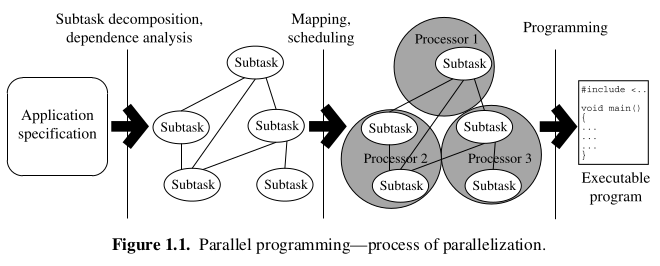
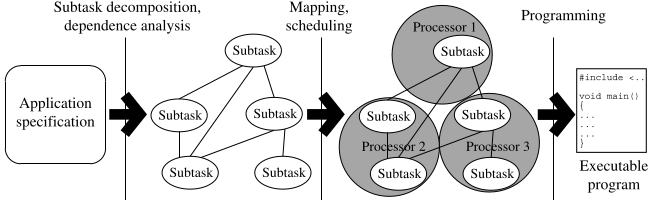
corrections and add pictures

diff --git a/inhalt/09_file_system.tex b/inhalt/09_file_system.tex
@@ -2,11 +2,10 @@
 mechanism for storing and accessing data and programs. \textbf{Files} contain data, \textbf{Directory structure} organizes and stores information about files.
 
 \subsection*{Files}
-\textbf{OS View:}  named collection of related info, logical storage unit, \textbf{User View:}  smallest unit to store info in sec. storage.
+\textbf{OS View:}  named collection of related info, log. storage unit, \textbf{User View:}  smallest unit to store info in sec. storage
 \begin{description}
     \item[Attributes](symbolic) \textbf{Name}, \textbf{Identifier},  \textbf{Type} (only if OS supports diff. types), \textbf{Location} (pointer to device + location in device), \textbf{Size} (in bytes/words/blocks), \textbf{Timestamps}, \textbf{Protection} (r, w, m)
-    \item[Operations]: \textbf{Create}: 1. find space 2. make entry in dir. \textbf{Open}: 1. evaluate file name 2. check access permissions (all ops ex. create\& delete call open) \textbf{Write(filehandle, data to write) / Read(filehandle, pointer in mem to store data) }: keeps position pointer where next read/write must happen. 1 position pointer per process. \\
-    \textbf{Reposition / Seek}: changes position pointer, \textbf{Delete(dir, file name)}: releases allocated space, \textbf{Truncate}: erase contents of file
+    \item[Operations]: \textbf{Create}: 1. find space 2. make entry in dir. \textbf{Open}: 1. evaluate file name 2. check access permissions (all ops ex. create\& delete call open) \textbf{Write(filehandle, data to write) / Read(filehandle, pointer in mem to store data) }: keeps position pointer where next read/write must happen. 1 position pointer per process. \textbf{Reposition / Seek}: changes position pointer, \textbf{Delete(dir, file name)}: releases allocated space, \textbf{Truncate}: erase contents of file
     \item[Structures]: File types can indicate internal structure of files. (ex: ELF (executable and linkable file in Linux)), makes OS large and cumbersome
     \item[Types - File extension]: extensions are used to indicate file types (ex: exe, c, xml, ... )
 \end{description}
@@ -19,10 +18,10 @@ mechanism for storing and accessing data and programs. \textbf{Files} contain da
 \end{itemize}
 
 \subsection*{Directory}
-collection of nodes containing information about all files. (symbol tables that translate file names into file control blocks)
+collection of nodes w/ information about all files. (symbol tables that translate file names into file control blocks)
 \begin{description}
     \item[Operations]Search, Create, Delete, List, Rename, Traverse
-    \item[Structure] \textbf{Single-Level} one dir for all users (grouping and naming problems), \textbf{Two-Level} separate dir for each user (UFD, efficient search, no grouping), \textbf{Tree-based} efficient search, grouping, abs/rel paths \textbf{Acyclic-graph} easy \& good traversal algos, shared subdirs and files, need to guarantee no cycles, complicate searching and deletion \textbf{General Graph} allows cycles, requires garbage collection to recover unused disk space %TODO: explain Multiple user file dir, no cycles bf of possibility of infinite loop
+    \item[Structure] \textbf{Single-Level} one dir for all users (grouping and naming problems), \textbf{Two-Level} separate dir for each user (UFD, efficient search, no grouping), \textbf{Tree-based} efficient search, grouping, abs/rel paths \textbf{Acyclic-graph} easy \& good traversal algos, shared subdirs and files, need to guarantee no cycles, complicate searching and deletion \textbf{General Graph} allows cycles, requires garbage collection to recover unused disk space %TODO: explain Multiple user file dir, no cycles bc of possibility of infinite loop
     \item[Memory Mapped Files] Map disk block (phys. mem) to page in virtual mem to directly access file on disk
 \end{description}
 
@@ -37,7 +36,7 @@ collection of nodes containing information about all files. (symbol tables that 
     %TODO: S. 10 (?) Implementation
     \item[Directory Implementation] \textbf{Linear List} easy to program, time-consuming in execution (requires linear search). optimizations: sorted list (but requires sort), binary tree. \textbf{Hash Table} linear list with hash data structure, decreases search time. beware of collisions. fixed size. optimizations: chained-overflow hash table.
     \item[Allocation Methods] \textbf{Contiguous}: file occupies contiguous blocks on device. Simple (needs only block nr \& length), performant. Problems: find space for file, knowing file size, external frag. Requires Compaction (Downtime). %Extents
-        \textbf{Linked}: File = linked list of storage blocks. solves problems of cont. frag. dir contains pointer to first\&last blocks. no direct access. (\textit{File Allocation Table FAT}) %TODO: FAT: only keeps track of file allocation but not free space
+        \textbf{Linked}: File = linked list of storage blocks. solves problems of cont. frag. dir contains pointer to first\&last blocks. no direct access. (\textit{File Allocation Table FAT, keeps track of file alloc. but not free space})
         \textbf{Indexed}: Each file has index block with pointers to data blocks. Random access, no ext. fragmentation, but overhead for index blocks (too big = overhead, too small = limits file size). \textit{Linked Scheme} link several index blocks, \textit{Multilevel Index} multiple levels of index blocks , \textit{Combined scheme}
     \item[Free-Space Management] File System maintains free-space list. Implementation: \textbf{Bit Vector/Map}: Each block represented by 1 bit, 0 = free, search for first 0 to find free space. \textbf{Linked List}: Link all free blocks together. Traversing time-consuming but seldom needed (always use first block). (\textbf{Grouping}: first free block contains adresses of another n free blocks)..
 \end{description}
@@ -45,6 +44,6 @@ collection of nodes containing information about all files. (symbol tables that 
 \subsection*{Internals}
 \begin{description}
     \item[Storage] Devices $\rightarrow$ Partitions $\rightarrow$ Volumes $\rightarrow$ File Systems
-    \item[Mounting] FS must be mounted before usage. \textbf{Mount point}: Location in dir structure where FS will be attached. Root partition gets mounted by the \textbf{boot loader} (set of blocks that contain enough code to know how to load the kernel) at boot time.
+    \item[Mounting] FS must be mounted before usage. \textbf{Mount point}: Location in dir structure where FS will be attached. Root partition mounted by the \textbf{boot loader} (set of blocks, enough code to know how to load kernel) at boot time.
     \item[Partitions] volume containing a FS. \textbf{Cooked} with FS, \textbf{Raw} w/o FS, raw sequence of bytes, \textbf{Root} contains the OS.
 \end{description}

diff --git a/inhalt/04_scheduling.tex b/inhalt/04_scheduling.tex
@@ -1,8 +1,10 @@
 \section*{Scheduling}
-\textbf{OS typically schedule threads and not processes}
+\textbf{Modern OS typically schedule threads and not processes} %NOTE: process seen as container of resources, thread is executed entity
 \subsection*{Basic concepts}
 \begin{description}
-  \item[Scheduling queues] OS maintains a ready and wait (waiting for I/O, child termination or interrupt to be serviced) queues.
+  \item[CPU-Bound / I/O-Bound]few \& long \textbf{CPU bursts} vs. many \& short
+  \item[Scheduling queues]OS maintains ready and wait (waiting for I/O, child termination or interrupt) queues.
+  \item[Preemptive Scheduling] CPU can be taken away from P. consider shared data, pr. in kernel m., disabling interrupts. \textbf{NonPr.}: P must voluntarily relinquish CPU control. %NOTE: nonpr: running $\rightarrow$ waiting, termination. pr: running $\rightarrow$ ready, waiting $\rightarrow$ ready
   \item[Short-term (CPU) scheduler] Selects P from ready queue to be brought to mem and allocates CPU time.
   \item[Long-term (Job) scheduler] Selects Ps to be brought from job pool (possibly on disk) to ready queue
   \item[Medium-Term scheduler] Removes Ps from mem, decrease degree of multiprog. (Swapping)
@@ -14,27 +16,41 @@
 \subsection*{Scheduling Criteria}
 \begin{description}
   \item[CPU utilization] $100 * cpu\_busy\_time / total\_time$
-  \item[Throughput] $number\_of\_finished\_Ps_/time\_unit$
+  \item[Throughput] $number\_of\_finished\_Ps_/time\_unit$ (measure of work)
   \item[Turnaround time] Amount of time to complete a particular P $waiting\_time+exec\_time+i\_o\_time$
   \item[Waiting time] Amount of time a P is waiting in ready queue
   \item[Response time] time it takes from when a request was submitted until first response is produced by P. (e.g. web server handling request)
 \end{description}
 
-\subsection*{Scheduling Algorithms}
+\subsection*{Scheduling Algorithms} %NOTE: for most. if tie (same prio/time etc.) FCFS breaks the tie
 \begin{description}
-  \item[First Come, First Served (FCFS)] Can lead to convoy effect, i.e. short P's waiting for long P's (starvation), which causes long avg. waiting time.
+  \item[First Come, First Served (FCFS)] Can lead to convoy effect (short P's waiting for long P's (starvation)). long avg. waiting time. Nonpreemtive execution (not suitable for interactive systems).
   \item[Shortest-Job-First (SJF)] Length of CPU-burst estimated with previous CPU-bursts of P. Is optimal, bc minimizes average waiting time.
-  \item[Shortest-remaining-time-first (SRFT)] SJF with preemption, i.e. when P arrives with shorter burst-time than current running one, then current P is stopped and new P can run.
-  \item[Priority scheduling (Prio)] Each P has fixed priority number. Lower number = higher priority. Higher priority first.
+  \item[Shortest-remaining-time-first (SRFT)] SJF with \textbf{preemption}, i.e. when P arrives with shorter burst-time than current running one, then current P is stopped and new P can run.
+  \item[Priority scheduling (Prio)] Each P has fixed priority number. Lower number = higher priority. %NOTE: higher priority first
   \item[Round Robin (RR)] FCFS with preemption. each P can run for max fixed time q (\textbf{quantum time}). if q large $\leadsto$ FCFS , q small $\leadsto$ Context switching overhead.
-  \item[Multilevel Queue Scheduling (MLQ)] Ready queue partitioned into separate ready queues. With each queue a priority number is associated. Each queue has own scheduling algorithm (e.g. foreground tasks with RR and background tasks with FCFS). A P is permanently in a given queue. If MQL preemptive $\leadsto$ starvation.
+  \item[Multilevel Queue Scheduling (MLQ)] Ready queue partitioned into separate ready queues, each associated with a priority number \& own scheduling algorithm (e.g. foreground tasks with RR and background tasks with FCFS). A P is permanently in a given queue. If MQL preemptive $\leadsto$ starvation. %NOTE: examples: queues per priority, process types
   \item[Multilevel Feedback Queue (MLFQ)] Like MLQ, but Ps can move between various queues (e.g. Ps with short burst-time or long waiting-time go to higher-priority queues). This avoids starvation. MLFQ is the most general algorithm, since it can be configured in many ways.
+\item[Completely Fair Scheduler]Used in Linux. assigns proportion of CPU processing time to each task (based on vruntime value). Keeps track in red-black tree (searchable in log. time). Next runnable task cached.
 \end{description}
 
 \subsection*{Thread Scheduling}
 \begin{description}
-  \item[Process Contention Scope (PCS)] Competition for CPU time is  among Ts within the same P. The user-level T library schedules, OS not involved in scheduling.
+  \item[Process Contention Scope (PCS)] Competition for CPU time is among Ts within the same P. The user-level T library schedules, OS not involved in scheduling.
   \item[System Contention Scope (SCS)] Ts from different Ps, as well as Ts within the same P, compete for CPU time. OS is scheduling Ts. OS using one-to-one mapping model schedule Ts only using SCS.
 \end{description}
 
-%TODO: Complete Fair Scheduling
+\subsection*{Multiprocessor Scheduling} %AMP, SMP, HMP (Homogenous Processors)
+\begin{description}
+    %NOTE: \item[Multicore Processors]multiple. CPUs on same phys. chip, each CPU w/ mult. HW Ts. OS sees each HW T as log. CPU.
+    \item[Load Balancing]equalizes thread loads b/w CPU cores. thread migration b/w cores may invalidate cache contents $\rightarrow$ incr. mem access times.
+
+\end{description}
+
+\subsection*{Algorithm Evaluation}
+\begin{description}
+    \item[Deterministic]Take predetermined workload and define performance for each algorithm.
+    \item[Queueing Models]Describes probabilistically the arrival of Ps and CPU/IO-bursts. \textbf{Little's law}: in steady state Ps leaving queue must equal Ps arriving. avg. queue length = avg. waiting time * avg. arrival rate
+    \item[Simulations] programmed model of computer system.
+    \item[Implementation]test in real systems (high cost, high risk)
+\end{description}

diff --git a/inhalt/10_virtualization.tex b/inhalt/10_virtualization.tex
@@ -2,14 +2,14 @@
 Abstract the HW of a single computer (CPU, RAM, Storage) into different execution environments. \\
 \begin{description}[labelsep=0pt]
     \item[] \textbf{Host} underlying HW system. \textbf{Hypervisor/VM Manager} provides interface identical to host. \textbf{Guest}
-    \item[History] \hspace{2pt} \textbf{Multicomputer Model} Each computer provides different service (+ reliable, isolation (sandboxing), - Maintenance, Scalability) \textbf{Virtualization} overcomes limitations. run multiple OS on one machine, Prototyping, support checkpointing and VM Migration. %TODO: checkpointing, vm migration ?
+    \item[History] \hspace{2pt} \textbf{Multicomputer Model} Each computer provides different service (+ reliable, isolation (sandboxing), - Maintenance, Scalability) \textbf{Virtualization} overcomes limitations. run multiple OS on one machine, Prototyping, support checkpointing and VM Migration.
 \end{description}
 \begin{description}
     \item[Implementation of Hypervisors]:
         \begin{itemize}[label={}, labelsep=0pt]
-        \item \textbf{Type 0}: HW-based solutions, support VM creation and management through \textit{firmware} (VMM itself is encoded in firmware and loaded at boot-time) %limited features bc HW
+        \item \textbf{Type 0}: HW-based solutions, support VM creation and management through \textit{firmware} (VMM itself is encoded in firmware and loaded at boot-time) %NOTE: limited features bc HW
         \item \textbf{Type 1}: OS-like software or OS's, VMM runs in kernel mode (ex: Windows HyperV, ..), common in data centers, live migrations (balance performance, efficiency), snapshots, cloning.
-        \item \textbf{Type 2}: applications that run on standard OS (VMM is a P), limited hw feature exploitation. (ex: VirtualBox) %TODO: evt. add comparison picture type 1 & type 2
+        \item \textbf{Type 2}: applications that run on standard OS (VMM is a P), limited hw feature exploitation. (ex: VirtualBox)
         \item \textbf{Emulators}: allow apps written in one system architecture to run on different system arch.
         \item \textbf{Programming Environment Virtualization}: no virtualization of real HW, but creation of optimized virtual system (ex: .NET, JVM)
         \item \textbf{Paravirtualization}: avoids causing traps by modifying guest OS source code
@@ -19,7 +19,7 @@ Abstract the HW of a single computer (CPU, RAM, Storage) into different executio
 \subsection*{Building Blocks}
 Exact Duplicate of HW difficult to provide (esp. with dual-mode operation (kernel/user mode))
 \begin{description}
-    \item[VCPU]Virtual CPU to represent the state of CPU per guest (as guest believes it to be).  %does not execute code, information from VCPU used during context-switches
+    \item[VCPU]Virtual CPU to represent the state of CPU per guest (as guest believes it to be).  %NOTE: does not execute code, information from VCPU used during context-switches
     \item[Trap-and-emulate] virtual user mode and virtual kernel mode (guest runs in physical user mode). privileged instruction (ex. sys calls) $\rightarrow$ trap to VMM $\rightarrow$ VMM emulates action $\rightarrow$ return control to guest (kernel mode slower $\rightarrow$ hw support)
     \item[Binary Translation] For CPUs that do not cleanly differentiate privileged instructions. VCPU in user mode $\rightarrow$  run instructions natively. VCPU in kernel mode $\rightarrow$ inspect next few instructions, \textit{Special Instructions} are translated and executed.
     \item[Hardware Support]enables more stable, faster and feature rich virtualization. more CPU modes, HW support for Nested Page Tables, DMA, interrupts (ex: Intel VT-x, AMD: AMD-V)
@@ -28,7 +28,7 @@ Exact Duplicate of HW difficult to provide (esp. with dual-mode operation (kerne
 \subsection*{Virtualization and OS Components}
 How do VMMs provide core OS-functions ?
 \begin{description}
-    \item[CPU Scheduling]VMM acts like multiprocessor system, schedules phys. CPU to VCPUs (using algos). %2 scenarios: enough CPUs, Overcommited, can cause clock drift
+    \item[CPU Scheduling]VMM acts like multiprocessor system, schedules phys. CPU to VCPUs (using algos). 2 scenarios: enough CPUs or Overcommited %NOTE: can cause clock drift
     \item[Overcommitment]Guests are configured to use more CPUs/Mem than physically available.
     \item[Memory Management] More Users of Mem $\rightarrow$ more pressure. Overcommitment common. VMM maintains \textbf{Nested Page Table} that translates guest page to real page table. (optimize without user knowing, own page-replacement-algos)
     \item[Storage Management] need to provide boot disk \& general data access. (support many guests, so partitioning not sufficient)

diff --git a/inhalt/07_memory.tex b/inhalt/07_memory.tex
@@ -15,29 +15,32 @@ MM is the only storage the CPU can access directly. \textbf{Speed:} CPU Register
 \subsection*{Contiguous Memory Allocation}
 each P is contained in a single section of mem that is contiguous to the section containing the next P. \textbf{Memory Protection} through usage of Relocation \& limit registers. degree of multiprog. limited by nr of partitions.
 \begin{description}
-    \item[Dynamic Storage Allocation]: OS maintains list of allocated and free partitions (\textbf{Holes}). First-fit (fastest), Best-fit (eq. to ff in storage-utilization, produces smallest leftover-hole), worst-fit (produces largest leftover hole) \\
+    \item[Dynamic Storage Allocation]: OS maintains list of allocated \& free partitions (\textbf{Holes}). First-fit (fastest), Best-fit (eq. to ff in storage-utilization, produces smallest leftover-hole), worst-fit ($\rightarrow$ largest leftover hole) \\
     \item[Internal Fragmentation]: physical mem organized into fixed-size blocks. happens if allocated mem larger than requested mem (internal to partition). \\
     \item[External Fragmentation]: Total Mem Space for requests exists, but is not contiguous. 50\% rule: 1/3 unusable. \textbf{Solutions} \textit{Compaction}: moving data, can be expensive, only possible with dynamic address relocation (during ex. time) \textit{Noncontinguous Allocation}: Strategy used in Paging \\
 \end{description}
 
 \subsection*{Paging}
+\begin{tikzpicture}[remember picture,overlay]
+    \node[xshift=81.5mm,yshift=-4.5mm] at (current page.west){%
+    \includegraphics[width=40mm]{tlb.jpeg}};
+\end{tikzpicture}
 PA can be noncontiguous, mem for P allocated wherever possible (no ex. fragmentation, but some internal $\rightarrow$ smaller pages eq. less int. frag but move overhead in page table). Physical mem is divided into fixed-size blocks called \textbf{frames}. Logical mem divided into same-sized blocks called \textbf{pages}.\\
 \begin{description}
     \item[Adress-Translation]: page number and page offset in the per-P page table
-    % \includegraphics[width=0.4\linewidth]{05_paging.jpg} %TODO: modify image to include TLB
     \item[] OS keeps copy of each per-P page table + maintains frame table (for each physical frame)
     \item[Hardware Implementation]: per-P page table kept in main mem. \textbf{PTBR} page-table base register (pointers) \& \textbf{PTLR} page-table length register (size of page table)
-    \item[Translation Lookaside Buffer TLB]: associative mem. hw cache for page table. (page nr, frame)
-    % TODO: replacement policies: round-robin, LRU, random. key kernel code can be wired down for permanent fast access
+    \item[Translation Lookaside Buffer TLB]: associative mem. hw cache for page table. (page nr, frame) \textbf{Replacement policies}: round-robin, LRU, random. key kernel code can be wired down for perm fast access
     \item[Memory Protection] protection bit (read-only, read-write) or valid-invalid bit (attached to each entry in the page table. indicates if legal (in LAS) or not)
-    \item[Shared Pages]: reentrant (unchanging) code shared among Ps. ex: Standard C libary
-    \item[Structure of the Page Table] \\
-    \item[Hierarchical Page Table]: ex: two-level page table, page the page table. (forwa[d mapping) \\
+    \item[Shared Pages]reentrant (unchanging) code shared among Ps. ex: std C lib
+\item[Structure of the Page Table] mem structure overhead. ex: 32bit LAS \\
+    Page Size 4KB ($2^{12}$), \# pages = $2^{20}$ $\rightarrow$ 1 mio entries in page table. \\
+    \textbf{Solutions}: hashed page tables, inverted page tables
+    \item[Hierarchical Page Table]ex: two-level, page the page table. (forward mapping) \\ %TODO: look at example
 \end{description}
-
+\vspace{5\baselineskip}
 \subsection*{Swapping}
 moving P temporarily out of mem to a \textit{backing store} and brought back for continued execution. (P roll out, roll in). system maintains ready queue. $\rightarrow$ transfer time too high, not used in modern OS
 \begin{description}
-    %TODO: hashed page tables, inverted page tables (if addresses expand beyond 32bits)
     \item[Swapping with Paging]: pages of a P instead of whole P swapped. (page in, page out)
 \end{description}

diff --git a/inhalt/08_virtual_memory.tex b/inhalt/08_virtual_memory.tex
@@ -7,11 +7,11 @@ Abstracts main mem into an extremely large, uniform array of storage (LAS > PAS)
     $\rightarrow$ no free frame? \textbf{Page Replacement}: select victim frame (requires 2 page transfers: page-out victim and page-in desired page, overhead can be reduced by using modify/dirty bit) %NOTE: Page replacement and Demand paging complete separation between physical and virtual mem
     \item[Page Replacement Algorithms] Decide which pages are replaced, reduce page-fault rate (nr of page faults minimally decreases with more frames). \textbf{FIFO}: oldest page replaced (doesn't say anything about usage of page), suffers from \textbf{Belady's anomaly}: Adding more frames can increase the number of page faults. \textbf{Optimal algorithm}: Replace the page that will not be used for the longest period of time. not possible in practice bc it  requires future knowledge. \textbf{LRU}: least recently used, replace page that has not been used the longest time.
     \item[Allocation of Frames]How many frames are given to each P? \textbf{Fixed Allocation}: equal or proportional to P size. \textbf{Priority Allocation}: proportional to priority (sometimes &size). \\
-        \textbf{Replacement}: select replacement frame from the set of all frames (\textbf{global}, no keeping track of which P replaced pages belong to) vs. own set of frames (\textbf{local}).
-        %global: P execution time can vary greatly, greater throughput (more common). local: more consistent per-process performance, but possibly underutilized mem TODO: Numa S. 44
+        \textbf{Replacement}: select replacement frame from the set of all frames (\textbf{global}, no keeping track of which P replaced pages belong to) vs. own set of frames (\textbf{local}). global: P execution time can vary greatly, greater throughput (more common). local: more consistent per-process performance, but possibly underutilized mem. % TODO: Numa S. 44
     \item[Thrashing] P does not have enough frames to support the pages in the working set $\rightarrow$ high page-fault rate $\rightarrow$ low CPU utilization $\rightarrow$ OS increases multiprog (with global r. alg.) $\rightarrow$ more thrashing
     \begin{itemize}
+        \item \textbf{Working Set Model}: model of memory access based on tracking the set of most recently accessed pages to control thrashing, assumes locality.
         \item \textbf{Locality}: set of pages that are actively used together by a P.
         \item \textbf{Locality Model}: all progs will exhibit a basic patterned mem reference structure, page-faults occur only when it changes locality (of mem-reference). Thr. occurs when sum of locality sizes > total phys. mem, can be limited by using local replacement algo, or simply providing enough mem.
-    \end{itemize} %TODO: Working Set Model, ev. OS Examples ?
+    \end{itemize} %NOTE: Linux uses demand paging and global replacement policy
 \end{description}

diff --git a/inhalt/11_other_topics.tex b/inhalt/11_other_topics.tex
@@ -1,12 +1,16 @@
 \section*{Parallelization Steps}
+\vspace{10\baselineskip}
+\begin{tikzpicture}[remember picture,overlay]
+    \node[xshift=-30mm,yshift=27mm] at (current page.east){%
+    \includegraphics[width=55mm]{paralellization.png}};
+\end{tikzpicture}
 \begin{description}
     \item[Sequential Program]Sequential Steps + Programming (Application specification $\rightarrow$ executable program)
-    \item[Parallel Program]Parallelization + Programming. \\ %Analysis of seq. problems or programs to identify parallelism. \\
-        % \includegraphics[width=0.4\linewidth]{paralellization.png} %TODO:
+    \item[Parallel Program]Parallelization + Programming. \\
         \item[Decomposition] of apps into functional tasks / data blocks. (expose inherent concurrency). \textbf{Types:} \textbf{Data} exploits data parallelism, \textbf{Functional} expl. funct. parallelism. \textbf{Recursive} divide and conquer (exploits d or f). \textbf{Explorators} search problems, exp. data p. \textbf{Speculatory} exploit and employ if-statements. ex. f. dec. \\
         \textbf{Influencing Factors:}
         \begin{itemize}
-            \item \textbf{Application Type}: distinct steps or iterative block of computations (task parallel, data parallel) %TODO: task parallel und data parallel erklären
+            \item \textbf{Application Type}: distinct steps or iterative block of computations (task parallel, data parallel)
             \item \textbf{Concurrency degree (max, avg)}: depending of degree of inherent parallelism. all/enough or none can be executed concurrently.
             \item \textbf{Granularity}: computational size of tasks / data blocks after decomposition. (fine, medium, coarse)
             \item \textbf{Target system}: affects costs of synchronization and communication. (\textit{Shared-mem arch}: support fine-grain decomp. inexpensive more frequent s \& c, \textit{Distr. mem arch}: usually require coarse-grain decomp. more expensive and less frequent.)
@@ -31,7 +35,7 @@
 \begin{description}
     \item[How?] Extend Compilers, \textbf{Extend languages}, Stack languages or New language \& Compiler Set
     \item[Pros] easiest, quickest, cheapest (effort, time). leverages existing compiler tech, new libs ready fast.
-    \item[Cons] lack of compiler support to catch errors (P creation, term., sync and communication), easy to write "bad" programs
+    \item[Cons] lack of compiler support to catch errors (P creation, term., sync and communication), complicated
     % \item[Standards: Shared-Memory Approach with OpenMP] TODO:
     \item[Parallel Multithreaded Programming]Multiple Ts (independent flow of control within one P with its own context (stack \& register set)). shares P data and opened files. Lower overhead. %TODO: S. 35
 \end{description}

diff --git a/inhalt/def.tex b/inhalt/def.tex
@@ -1,13 +1,7 @@
 \definecolor{myblue}{cmyk}{1,.72,0,.38}
 
-\def\firstcircle{(0,0) circle (1.5cm)}
-\def\secondcircle{(0:2cm) circle (1.5cm)}
-
 \colorlet{circle edge}{myblue}
 \colorlet{circle area}{myblue!5}
-
-\tikzset{filled/.style={fill=circle area, draw=circle edge, thick},
-    outline/.style={draw=circle edge, thick}}
 
 \pgfdeclarelayer{background}
 \pgfsetlayers{background,main}
@@ -30,7 +24,7 @@ leftmargin=0mm,rightmargin=0mm,skipbelow=0mm,skipabove=0mm,
 \renewcommand{\section}{\@startsection{section}{1}{0mm}%
                                 {.2ex}%
                                 {.2ex}%x
-                                {\color{myblue}\sffamily\footnotesize\bfseries}}
+                                {\color{myblue}\sffamily\scriptsize\bfseries}}
 \renewcommand{\subsection}{\@startsection{subsection}{1}{0mm}%
                                 {.2ex}%
                                 {.2ex}%x

diff --git a/inhalt/05_threads.tex b/inhalt/05_threads.tex
@@ -41,6 +41,6 @@
   \item[Signal handling] (Signals are event based messages to a P) Problem: Where should a signal be delivered for a multithreaded P? Either same T is informed (sync), all Ts (async) or special signal T
   \item[Asynchronous cancellation] T terminates immediately
   \item[Deferred cancellation] T periodically checks if it should terminate (recommended)
-  \item[Lightweight Process] A data structure between kernel and user Ts to manage appropriate number of kernel Ts allocated to app.
+  \item[Lightweight Process]data structure between KTs and UTs to manage appropriate nr of KTs allocated to app.
   \item[Scheduler activations] provide upcalls - a communication mechanism from the kernel to the app, to inform the app about events.
 \end{description}

diff --git a/inhalt/03_processes.tex b/inhalt/03_processes.tex
@@ -1,6 +1,6 @@
 \section*{Process Management}
 \begin{description}
-    \item[Process] Program loaded into mem, in execution. CPU-bound / I/O bound %NOTE: few&long CPU bursts vs. many & short
+    \item[Process] Program loaded into mem, in execution.
   \item[Program] Passive entity stored on disk
   \item[Process states] new, ready, running, waiting, terminated
   \item[Process Control Block] Information about each P: P state, P number, PID, program counter, CPU registers, Mem.-management information (allocated mem for process), I/O status, CPU scheduling info (e.g. priority), Accounting info (e.g. CPU used)
